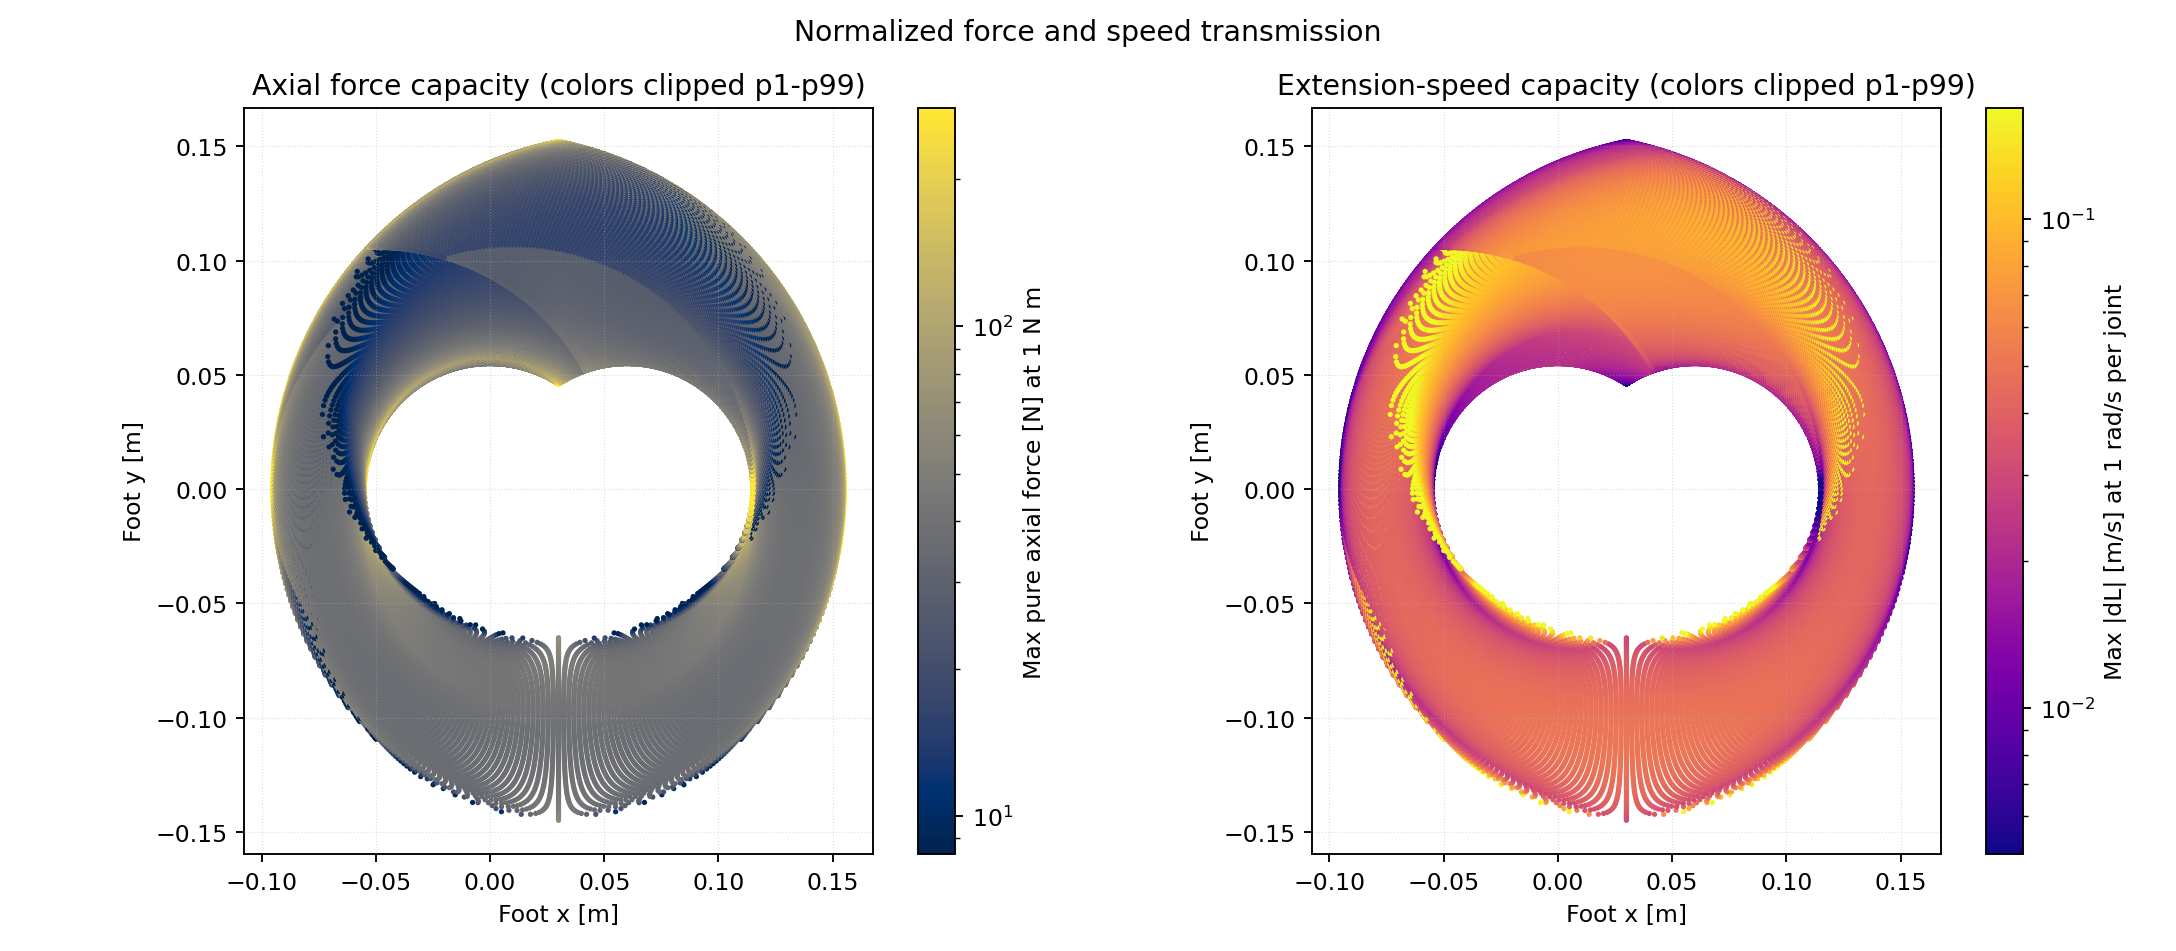
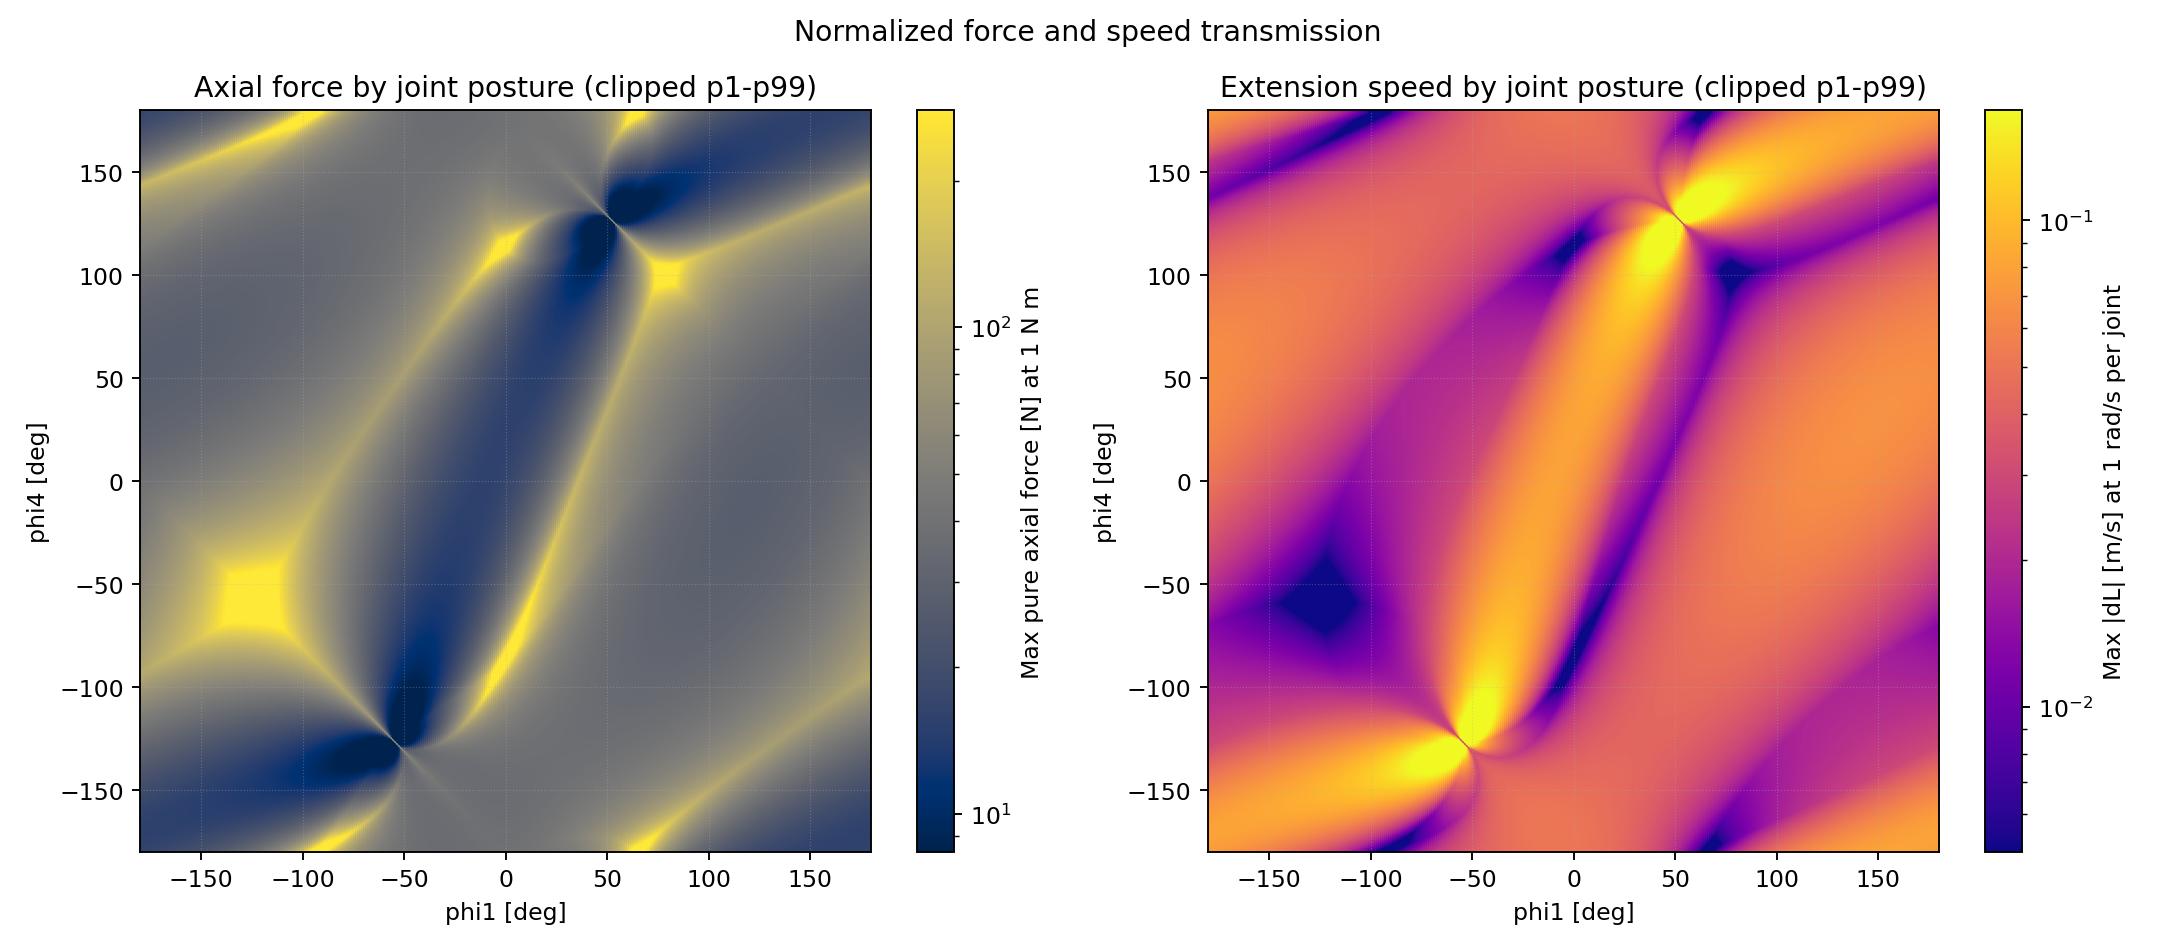
checkpoint: preserve verified workspace analysis state

diff --git a/scripts/analyze_workspace.py b/scripts/analyze_workspace.py
@@ -27,6 +27,7 @@ from src.analysis import (  # noqa: E402
     USABLE_CONDITION_MAX,
     USABLE_SIGMA_MIN,
     WorkspaceScan,
+    best_class_xy_grid,
     scan_workspace,
     summarize_scan,
 )
@@ -247,15 +248,15 @@ def plot_upright_condition(scan: WorkspaceScan, output: Path) -> None:
 def plot_force_speed_transmission(scan: WorkspaceScan, output: Path) -> None:
     figure, axes = plt.subplots(1, 2, figsize=(12.8, 5.6))
     size = _scatter_size(scan)
-    x = scan.column("xc")
-    y = scan.column("yc")
+    q1 = np.rad2deg(scan.column("phi1"))
+    q4 = np.rad2deg(scan.column("phi4"))
     force = scan.column("max_axial_force")
     speed = scan.column("max_extension_speed")
 
     force_low, force_high = np.percentile(force[np.isfinite(force)], [1, 99])
     force_plot = axes[0].scatter(
-        x,
-        y,
+        q1,
+        q4,
         c=np.clip(force, force_low, force_high),
         s=size,
         cmap="cividis",
@@ -264,14 +265,14 @@ def plot_force_speed_transmission(scan: WorkspaceScan, output: Path) -> None:
         rasterized=True,
     )
     figure.colorbar(force_plot, ax=axes[0], label="Max pure axial force [N] at 1 N m")
-    axes[0].set_title("Axial force capacity (colors clipped p1-p99)")
-    _equal_xy(axes[0])
+    axes[0].set_title("Axial force by joint posture (clipped p1-p99)")
+    _joint_axes(axes[0])
 
     positive_speed = speed[speed > 0.0]
     speed_low, speed_high = np.percentile(positive_speed, [1, 99])
     speed_plot = axes[1].scatter(
-        x,
-        y,
+        q1,
+        q4,
         c=np.clip(speed, speed_low, speed_high),
         s=size,
         cmap="plasma",
@@ -282,8 +283,8 @@ def plot_force_speed_transmission(scan: WorkspaceScan, output: Path) -> None:
     figure.colorbar(
         speed_plot, ax=axes[1], label="Max |dL| [m/s] at 1 rad/s per joint"
     )
-    axes[1].set_title("Extension-speed capacity (colors clipped p1-p99)")
-    _equal_xy(axes[1])
+    axes[1].set_title("Extension speed by joint posture (clipped p1-p99)")
+    _joint_axes(axes[1])
     figure.suptitle("Normalized force and speed transmission")
     _save(figure, output)
 
@@ -308,17 +309,17 @@ def plot_workspace_classification(scan: WorkspaceScan, output: Path) -> None:
     axes[0].set_title("Joint-space classification")
     _joint_axes(axes[0])
 
-    for code in (2.0, 1.0, 0.0):
-        selected = codes == code
-        axes[1].scatter(
-            scan.column("xc")[selected],
-            scan.column("yc")[selected],
-            s=size,
-            color=CLASS_COLORS[int(code)],
-            linewidths=0,
-            rasterized=True,
-        )
-    axes[1].set_title("Foot workspace (best classes drawn last)")
+    x_edges, y_edges, best_class = best_class_xy_grid(scan)
+    axes[1].pcolormesh(
+        x_edges,
+        y_edges,
+        np.ma.masked_invalid(best_class),
+        cmap=cmap,
+        norm=norm,
+        shading="flat",
+        rasterized=True,
+    )
+    axes[1].set_title("Foot workspace: best class in each XY bin")
     _equal_xy(axes[1])
 
     handles = [
@@ -450,6 +451,7 @@ def _extended_summary(scan: WorkspaceScan) -> dict[str, Any]:
             "joint_scan_range_rad": [-float(np.pi), float(np.pi)],
             "joint_scan_endpoint_included": False,
             "upright_half_width_deg": 5.0,
+            "xy_classification_bins": max(24, scan.resolution // 3),
             "upright_l0_range_m": [
                 float(np.min(scan.column("l0")[upright])),
                 float(np.max(scan.column("l0")[upright])),

diff --git a/tests/test_workspace_cli.py b/tests/test_workspace_cli.py
@@ -4,6 +4,10 @@ import subprocess
 import sys
 from pathlib import Path
 
+import numpy as np
+
+from src.analysis import best_class_xy_grid, scan_workspace
+
 PROJECT_ROOT = Path(__file__).resolve().parents[1]
 FIGURE_NAMES = (
     "workspace_pose.png",
@@ -12,6 +16,30 @@ FIGURE_NAMES = (
     "force_speed_transmission.png",
     "workspace_classification.png",
 )
+
+
+def test_best_class_xy_grid_aggregates_all_internal_postures() -> None:
+    scan = scan_workspace(resolution=12)
+    x_edges, y_edges, grid = best_class_xy_grid(scan)
+    expected = np.full_like(grid, np.nan)
+    x_index = np.clip(
+        np.searchsorted(x_edges, scan.column("xc"), side="right") - 1,
+        0,
+        grid.shape[1] - 1,
+    )
+    y_index = np.clip(
+        np.searchsorted(y_edges, scan.column("yc"), side="right") - 1,
+        0,
+        grid.shape[0] - 1,
+    )
+    for row, column, code in zip(
+        y_index, x_index, scan.column("class_code"), strict=True
+    ):
+        previous = expected[row, column]
+        expected[row, column] = code if np.isnan(previous) else min(previous, code)
+
+    np.testing.assert_array_equal(np.isnan(grid), np.isnan(expected))
+    np.testing.assert_array_equal(grid[~np.isnan(grid)], expected[~np.isnan(expected)])
 
 
 def test_workspace_analysis_cli_writes_data_and_five_figures(tmp_path: Path) -> None:

diff --git a/src/analysis.py b/src/analysis.py
@@ -247,6 +247,38 @@ def scan_workspace(
     )
 
 
+def best_class_xy_grid(
+    scan: WorkspaceScan, bins: int | None = None
+) -> tuple[FloatArray, FloatArray, FloatArray]:
+    """Aggregate the best available posture class in each foot-space bin."""
+    bin_count = bins if bins is not None else max(24, scan.resolution // 3)
+    if bin_count < 2:
+        raise ValueError("bins must be at least 2")
+    x = scan.column("xc")
+    y = scan.column("yc")
+    x_edges = np.linspace(float(np.min(x)), float(np.max(x)), bin_count + 1)
+    y_edges = np.linspace(float(np.min(y)), float(np.max(y)), bin_count + 1)
+    x_index = np.clip(
+        np.searchsorted(x_edges, x, side="right") - 1,
+        0,
+        bin_count - 1,
+    )
+    y_index = np.clip(
+        np.searchsorted(y_edges, y, side="right") - 1,
+        0,
+        bin_count - 1,
+    )
+    grid = np.full((bin_count, bin_count), 3, dtype=np.int8)
+    np.minimum.at(
+        grid,
+        (y_index, x_index),
+        scan.column("class_code").astype(np.int8),
+    )
+    result = grid.astype(float)
+    result[grid == 3] = np.nan
+    return x_edges, y_edges, result
+
+
 def _distribution(values: FloatArray) -> dict[str, float]:
     return {
         "min": float(np.min(values)),

diff --git a/README.md b/README.md
@@ -248,6 +248,9 @@ Fmax = 1 / max(|J11|, |J12|)
 max |dL| = |J11| + |J12|
 ```
 
+这两张传递图使用 `phi1/phi4` 关节空间，而不是 XY：同一个 XY 可能对应多个
+内部构型及不同传动比，直接在 XY 上覆盖着色会让颜色依赖扫描绘制顺序。
+
 推荐区内，归一化轴向力范围为 `13.07...138.23 N`，中位数 `34.71 N`；
 归一化最大伸缩速度范围为 `0.0138...0.0987 m/s`，中位数 `0.0446 m/s`。
 实际相同电机的结果可分别按扭矩上限和速度上限线性缩放。
@@ -270,9 +273,11 @@ condition 区域内比较力和速度，且最终还要加入电机峰值/连续
 
 全关节空间中推荐 78188 点（60.33%）、可用 40277 点（31.08%）、不建议
 11135 点（8.59%）。竖直带中对应为 9184、4938、1467 点，即推荐
-58.91%、可用 31.68%、不建议 9.41%。右侧 XY 图先画不建议、最后画推荐，
-因此表示某个足端位置是否至少存在良好内部构型；左侧关节空间图才是选择
-具体 `phi1/phi4` 时应使用的风险图。
+58.91%、可用 31.68%、不建议 9.41%。右侧 XY 图将工作空间划分为
+`120 x 120` 栅格，并对落入同一格的全部内部姿态取最佳类别，因此表示该
+足端小区域是否至少存在良好内部构型；左侧关节空间图才是选择具体
+`phi1/phi4` 时应使用的风险图。右图白格表示离散的 1 度关节扫描没有样本
+落入该 XY 小格，不应解释成新的连续不可达边界。
 
 对机器人实际意味着：绿色不是机械安全认证，而是数值传递品质良好；橙色
 可以运动但控制裕度下降；红色应避开或降速、限力。真实推荐区必须在此基础
